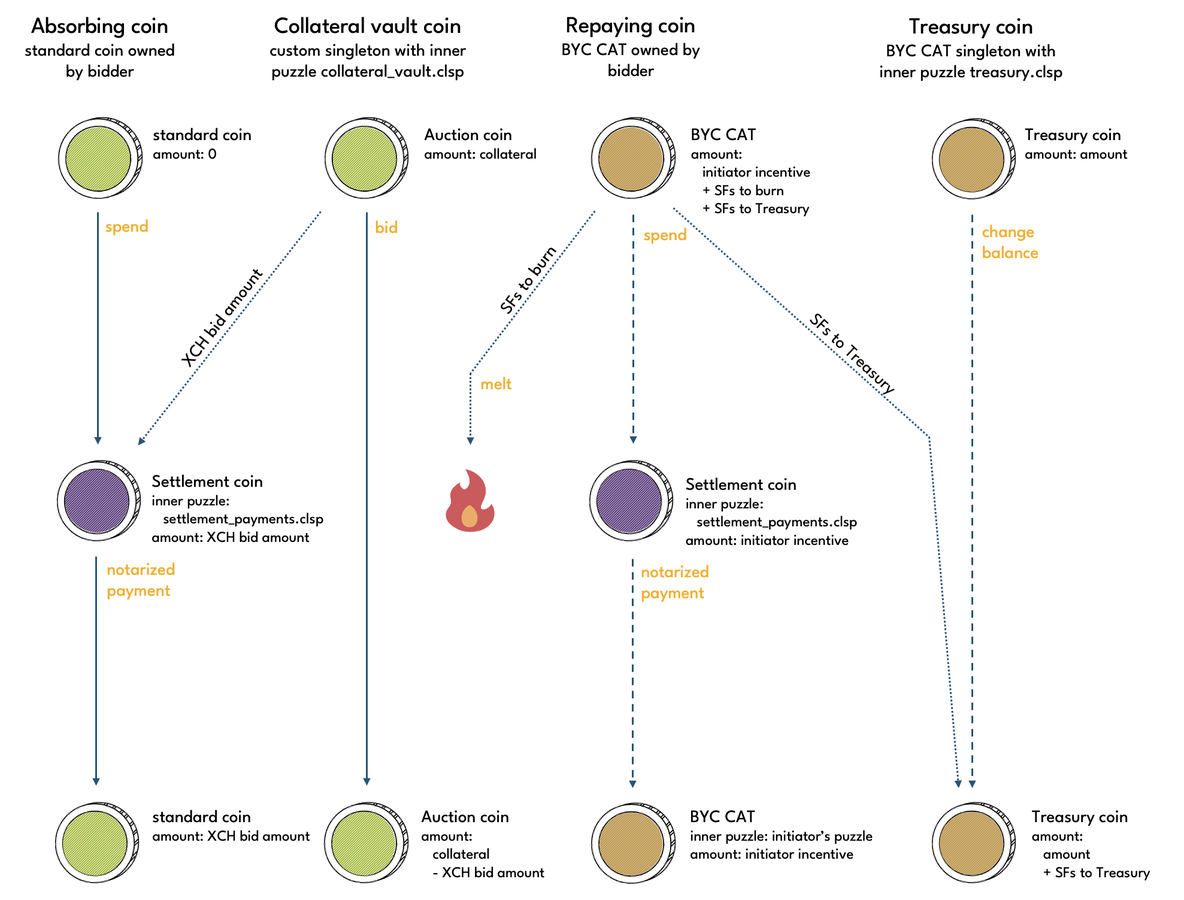
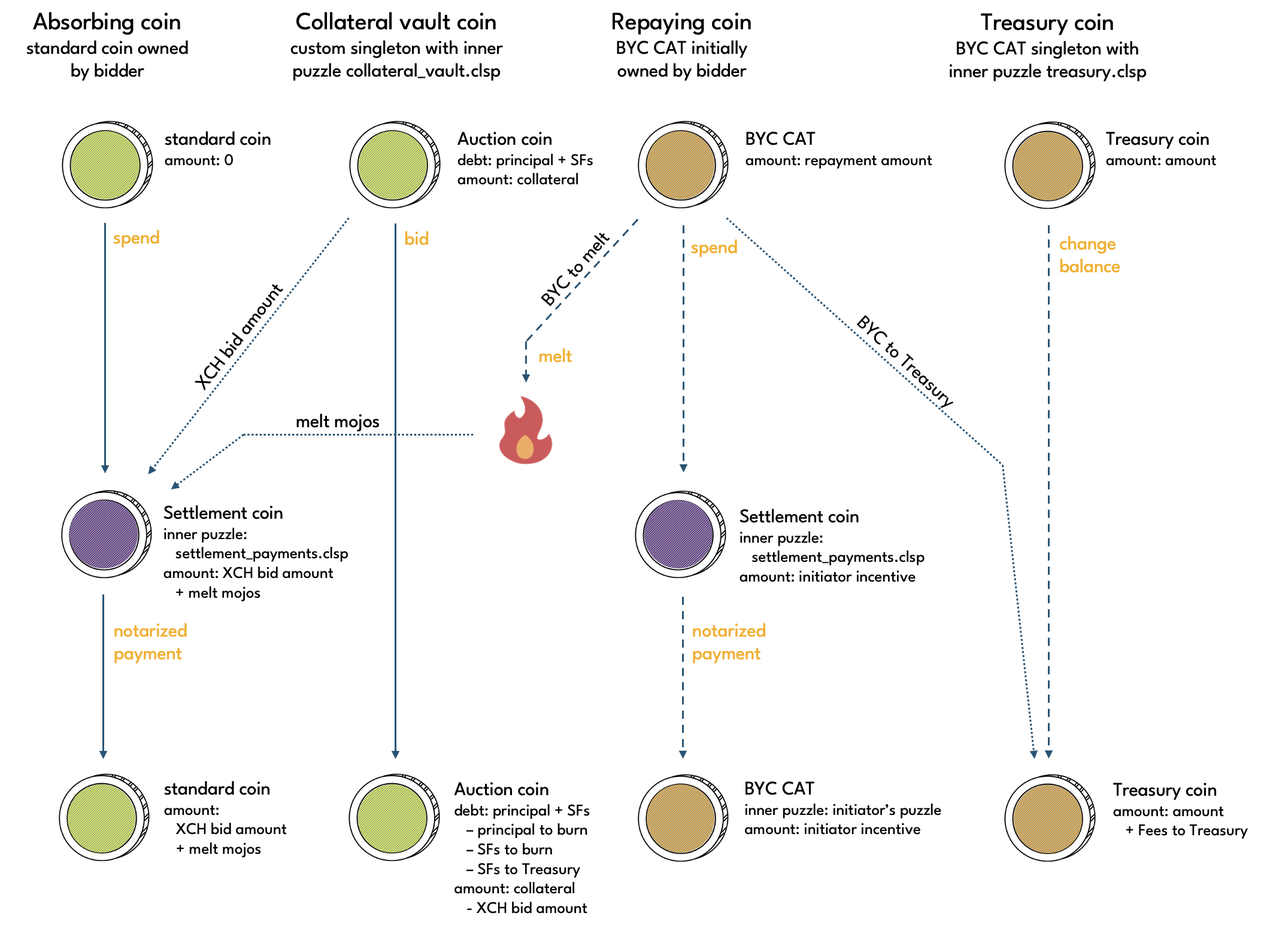
updates liquidation page in technical manual to account for new way in which debt is being recovered

diff --git a/docs/technical-manual/liquidation.md b/docs/technical-manual/liquidation.md
@@ -10,6 +10,8 @@ When a collateral vault liquidation is triggered, owner operations can no longer
 
 Liquidation auctions are Dutch auctions that either recover all debt or eventually time out. If a timeout occurs without all debt having been recovered but with collateral left in the vault, then a liquidation auction can be restarted by calling the start operation again. If a timeout occurs without all debt having been recovered and with no collateral left in the vault, then a restart is no longer possible, and the vault is said to have incurred **Bad Debt**.
 
+Throughout liquidation and bad debt recovery processes, any remaining debt is enforced to be greater than the **Minimum Debt Amount**. This prevents vaults being left with small amounts of debt that are uneconomical to recover.
+
 ## Operations
 
 Puzzle that operations are performed on: [collateral_vault.clsp](https://github.com/circuitdao/puzzles/blob/main/circuit_puzzles/collateral_vault.clsp)
@@ -23,42 +25,84 @@ Keeper operations:
 
 Starts or restarts a liquidation auction. A liquidation auction can be started if the value of the collateral, valued at the Statutes Price, is less than or equal to the vault's outstanding debt. The keeper that executes the start operation is referred to as the **initiator**. Executing the start operation entitles the initiator to the [liquidation incentives](./../user-guide/liquidation#liquidation-incentives).
 
-A vault keeps track of the state of a Liquidation Auction in the ```AUCTION_STATE``` curried arg. Auction state variables:
+When a Liquidation Auction is started, the vault's debt gets frozen, i.e. Stability Fees stop accruing. On top of the debt, a Liquidation Penalty is applied, which is a number of basis points as set in ```STATUTE_VAULT_LIQUIDATION_PENALTY_BPS```. The sum of debt and Liquidation Penalty is the **total debt**. The aim of the Liquidation Auction is to recover the total debt by auctioning off the vault's collateral.
+
+```
+initial_total_debt = debt + liquidation_penalty
+```
+
+When a Liquidation Auction gets started, total debt split into three components: **initiator incentive**, **BYC to Treasury**, and **BYC to melt**. These are reduced successively with each bid. Remaining balances of each are kept track of in the ```AUCTION_STATE``` curried arg.
+
+```
+remaining_total_debt = initiator_incentive_balance + byc_to_treasury_balance + byc_to_melt_balance
+```
+
+When the auction is started, initiator incentive is set to be the Liquidation Incentive, BYC to Treasury is defined as LP plus SFs minus Liquidation Incentive minus Transferred Fees, and BYC to melt is defined to be principal plus Transferred Fees. See the diagram in the [Bid](./liquidation#bid) operation section. Since these three quantities are being used to keep account of the vault's remaining total debt over the course of the Liquidation Auction, the curried args ```PRINCIPAL```, ```TRANSFERRED_FEES``` and ```DISCOUNTED_PRINCIPAL``` are no longer needed and are set to 0.
+
+A vault keeps track of the state of a Liquidation Auction in the ```AUCTION_STATE``` curried arg. Auction state variables are:
 
 * ```auction_start_time```: timestamp of when auction was (re-)started
 * ```start_price```: price at which Dutch auction starts. calculated as Statutes Price * Starting Price Factor
 * ```step_price_decrease_factor```: factor by which auction price decreases in each step of Dutch auction
 * ```step_time_interval```: number of seconds for which an auction price is valid before it gets reduced again
 * ```initiator_puzzle_hash```: puzzle hash at which the initiator has opted to receive the Liquidation Incentive
-* ```remaining_initiator_incentive```: liquidation incentive still to be paid to initiator
+* ```initiator_incentive_balance```: remaining liquidation incentive still to be paid to initiator
+* ```auction_timeout```: time until auction times out
+* ```minimum_debt_amount```: minimum debt that must remain if not paid off entirely
+* ```byc_to_treasury_balance```: remaining share of debt to be paid to treasury
+* ```byc_to_melt_balance```: remaining share of debt to be melted
 
-Auction state variables are immutable until the auction finishes except for ```remaining_initiator_incentive```, which reduces with each bid until the Liquidation Incentives have been fully paid out to the initiator.
+Auction state variables are immutable until the auction finishes except for the three components that make up remaining total debt:
+* ```initiator_incentive_balance```
+* ```byc_to_treasury_balance```
+* ```byc_to_melt_balance```
 
 #### State changes
 
+* ```TRANSFERRED_FEES```: set to 0
 * ```AUCTION_STATE```: initialisation of all auction state variables
+* ```PRINCIPAL```: set to 0
+* ```DISCOUNTED_PRINCIPAL```: set to 0
 
 ### Bid
 
 Once started, keepers can bid in the liquidation auction until it times out.
 
-Bidders specify how much of the remaining debt owed to the vault they would like to repay. This is the **BYC bid amount**. The collateral vault puzzle calculates the **XCH bid amount**, which is the amount of collateral that the bidder receives in return based on the current auction price. The current auction price in turn is calculated based on the time that has passed since the start of the auction, **Price Validity** (```step_time_interval```) and **Price Decrease Factor** (```step_price_decrease_factor```).
+Bidders specify how much of the remaining debt owed to the vault they would like to repay. This is the **BYC bid amount**. The collateral vault puzzle calculates the **XCH bid amount**, which is the amount of collateral that the bidder receives in return based on the current auction price.
+
+The auction price is calculated based on the time that has passed since the start of the auction, **Price Validity** (```step_time_interval```) and **Price Decrease Factor** (```step_price_decrease_factor```). See the [Liquidation Auction](./../user-guide/liquidation#liquidation-auction) section in the User Guide for a diagram.
+
+BYC bid amounts are applied against any remaining debt in the following order:
+* Liquidation Incentive
+* BYC to Treasury
+* BYC to melt
+In other words, only once the Initiator has received the full Liquidation Incentive is any BYC transferred to Treasury. And only once the Treasury has received the full amount it is due does any BYC get melted.
+
+![Liquidation BYC bid amount allocation](./../../static/img/Liquidation_bid_allocation_diagram.png)
+
+The diagram above illustrates how BYC bid amounts are allocated. In this concrete example, both Initiator and Treausry are being fully paid, and there is only some BYC left to melt to extinguish what remains of the total debt, i.e. any further bids would have their entire BYC bid amounts melted.
+
+A coin spend diagram for a Liquidation Auction bid is shown below. Depending on how much of the total debt has already been repaid and the size of a bid, any of the three destinations of the BYC bid amount is optional. For example if the Initiator has been fully paid already, but not the Treasury, a small bid would have its entire BYC bid amount paid into the Treasury. This means only the Treasury coin spend would be required but no BYC tail reveal for melting and no spend to a settlement coin to pay the Initiator.
 
 ![Liquidation Auction coin spends](./../../static/img/Liquidation_auction_bid_coin_spend_diagram.png)
 
-When a bid is successful, the amount of BYC that gets burned vs that which gets deposited into the Treausry is calculated using the same methodology as in the [repay operation](./collateral-vaults#repay).
-
 If a liquidation auction has timed out and all the debt has been recovered, the liquidation was successful. The vault is released back to the borrower together with any collateral that wasn't claimed in the auction.
 
-If a liquidation auction has timed out without all debt having been recovered it can be restarted via the start auction operation, unless there is no collateral left in the vault, in which case the vault is said to have incurred Bad Debt.
+:::danger
+It is the bidders responsibility to ensure the BYC bid amount does not exceed what is necessary to claim the remaining collateral in the vault. Any excess BYC will be lost.
+:::
+
+The amount of collateral a bidder receives is the minimum of BYC bid amount divided by the current Auction Price and the amount of collateral left in the vault. This means that if the BYC bid amount is chosen too large, the protocol will use it to extinguish debt without delivering any XCH in return, which means that effectively the bidder has acquired collateral at a price above the current Auction Price.
+
+If a Liquidation Auction has timed out without all debt having been recovered it can be restarted via the start auction operation, unless there is no collateral left in the vault, in which case the vault is said to have incurred Bad Debt.
 
 #### State changes
 
-* ```TRANSFERRED_FEES```
 * ```COLLATERAL```
-* ```PRINCIPAL```
-* ```AUCTION_STATE```: ```remaining_initiator_incentive``` gets updated if Liquidation Incentives weren't fully paid out yet
-* ```DISCOUNTED_PRINCIPAL```
+* ```AUCTION_STATE```:
+  * ```initiator_incentive_balance```
+  * ```byc_to_treasury_balance```
+  * ```byc_to_melt_balance```
 
 ### Recover Bad Debt
 
@@ -66,13 +110,15 @@ A liquidation fails if all collateral has been sold off to bidders without all d
 
 ![Recover bad debt](./../../static/img/Recover_bad_debt_diagram.png)
 
-If there isn't enough BYC in the Treasury to cover the entire Bad Debt amount, keepers can refill the Treasury by [transferring Stability Fees](./collateral-vault#transfer-stability-fees) from collateral vaults that are neither in liquidation nor have incurred Bad Debt. If even after a Treasury refill there isn't enough BYC available to cover the entire Bad Debt, it is possible to extinguish only part of it. Any remaining Bad Debt should be recovered by holding [Recharge Auctions](./recharge-auction) to refill the Treasury.
+If there isn't enough BYC in the Treasury to cover the entire Bad Debt amount, keepers can refill the Treasury by [transferring Stability Fees](./collateral-vault#transfer-stability-fees) from collateral vaults that are neither in liquidation nor have incurred Bad Debt. Alternatively, it is possible to hold [Recharge Auctions](./recharge-auction) to refill the Treasury, or to extinguish only part of the Bad Debt.
 
-Once all bad debt has been extinguished, i.e. both ```TRANSFERRED_FEES``` and ```PRINCIPAL``` are 0, ```AUCTION_STATE``` is set to nil. This returns the vault to eve state and hands control back to its owner.
+Once all bad debt has been recovered, ```AUCTION_STATE``` is set to nil. This returns the vault to eve state and hands control back to its owner.
+
+Note that the initiator is not entitled to any upaind initiator incentive if the vault is in bad debt.
 
 #### State changes
 
-* ```TRANSFERRED FEES```: gets reduced according to recovery amount
-* ```PRINCIPAL```: gets reduced according to recovery amount
 * ```AUCTION_STATE```: set to nil if all bad debt extinguished
-* ```DISCOUNTED_PRINCIPAL```: set to nil
+  * ```initiator_incentive_balance```
+  * ```byc_to_treasury_balance```
+  * ```byc_to_melt_balance```

diff --git a/docs/technical-manual/advanced-topics/design-decisions.md b/docs/technical-manual/advanced-topics/design-decisions.md
@@ -30,65 +30,6 @@ Generally, the aim has been to reduce the cost of coin spends as much as possibl
 
 * Conditions make use of ```sha256``` hashes instead of ```sha256tree`` hashes whenever possible as a plain hash is cheaper than a treehash. In doing so, care must be taken to prevent byte shifting attacks by checking the length of each hashed element.
 
-## Condition prefixes and filtering
-
-When performing an operation on the protocol, it is usually necessary to spend multiple protocol coins at once, and for these coins to communicate with each other to ensure that each of them is being spent in a specific way. The mechanism that Chia uses for this are [conditions](https://docs.chia.net/conditions).
-
-In addition, protocol coins may also want to communicate with the off-chain world, for example with the driver code that is used to construct coin spends. This can be achieved via driver hints, which also use conditions.
-
-### Inter-coin communication
-
-Inter-coin communication is facilitated by announcement and message conditions.
-
-| condition                  | prefixable         |
-|:---------------------------|:------------------:|
-| SEND_MESSAGE               | :white_check_mark: |
-| RECEIVE_MESSAGE            | :white_check_mark: |
-| CREATE_COIN_ANNOUNCEMENT   | :white_check_mark: |
-| ASSERT_COIN_ANNOUNCEMENT   |                    |
-| CREATE_PUZZLE_ANNOUNCEMENT | :white_check_mark: |
-| ASSERT_PUZZLE_ANNOUNCEMENT |                    |
-
-For the protocol to be secure, it is crucial that the conditions marked as **prefixable** in the table above cannot be faked.
-
-For example, if a user secures a vault with an inner puzzle, the inner puzzle must not output a SEND_MESSAGE condition that looks like an SEND_MESSAGE condition the outer puzzle could have generated, as this could be used to falsely signal to other coins that the vault is being spent in a certain way or has a certain state.
-
-To prevent conditions from being faked, the protocol uses the same [trick](https://chialisp.com/cats/#prefixes) as CATs, and prepends the **protocol prefix** to the condition message:
-
-```PROTOCOL_PREFIX = "CRT"```
-
-The outer puzzle of any protocol coin can then filter all conditions generated by the inner puzzle or passed in via the solution, and fail the spend if a prefixable condition is encountered.
-
-Assert conditions are not prefixable as these can only restrict the spend of the coin that outputs them, but have no effect on other coins.
-
-
-### Driver hints
-
-It can be difficult for drivers to tell the state of an unspent coin. The driver code would effectively need to reimplement the coin spend logic of the coin's parent puzzle, so that the state of the unspent coin can be derived from parent puzzle reveal and solution. However, this can be challenging, especially as there are no transpilers for Chialisp available yet, making driver code trying to accurately replicate Chialisp code prone to errors.
-
-As a workaround, puzzles can communicate with the driver via remark conditions. If every spend path of a puzzle includes a remark condition that publishes the state of the child coin created, it is straightforward for the driver to construct the state of the child coin.
-
-| condition | prefixable         |
-|:----------|:------------------:|
-| REMARK    | :white_check_mark: |
-
-As with conditions use for inter-coin communication, the protocol makes sure that remark conditions used for driver hints cannot be faked by making the protocol prefix the first element following the condition code.
-
-```(list REMARK PROTOCOL_PREFIX ...)```
-
-The outer puzzle of any protocol coin can then filter all remark conditions generated by the inner puzzle or passed in via the solution, and fail the spend if a prefixed one is encountered.
-
-:::warning
-Collateral vaults use a prefixed remark condition from the inner puzzle to determine which vault operation is being performed. This means that vault owners need to be careful to only use inner puzzles that allows them to generate the required remark conditions if needed. This has the advantage that complex custody arrangements can be put into place (such as custom rules for how individual vault operations must be authorised), but comes with the risk that an error in the inner puzzle logic results in the collateral deposited in a vault becoming inaccessible.
-:::
-
-
-### Coin creation
-
-The CREATE_COIN condition deserves special attention. Where there is an inner puzzle or the ability to pass in conditions via the solution, it would be possible for additional child coins to be created. This is problematic for [protocol coins](http://localhost:3000/technical-manual/overview#list-of-protocol-coins) that are singletons.
-
-Although it would be possible to prefix CREATE_COIN conditions using the memo field, protocol condition filters ensure that no arbitrary CREATE_COINs can be generated from inner puzzles or solutions. CREATE_COIN conditions are either suitably processed or modified, or cause the spend to fail. If users want to tie the creation of a new coin to protocol coin spends, they can achieve this by using non-prefixed inter-coin communication conditions and protocol-external parent coins.
-
 
 ## Security
 

diff --git a/docs/technical-manual/advanced-topics/condition-filtering.md b/docs/technical-manual/advanced-topics/condition-filtering.md
@@ -1,0 +1,69 @@
+---
+id: condition-filtering
+title: Condition filtering
+sidebar_position: 1400
+---
+
+# Condition prefixes and filtering
+
+When performing an operation on the protocol, it is usually necessary to spend multiple protocol coins at once, and for these coins to communicate with each other to ensure that each of them is being spent in a specific way. The mechanism that Chia uses for this are [conditions](https://docs.chia.net/conditions).
+
+In addition, protocol coins may also want to communicate with the off-chain world, for example with the driver code that is used to construct coin spends. This can be achieved via driver hints, which also use conditions.
+
+## Inter-coin communication
+
+Inter-coin communication is facilitated by announcement and message conditions.
+
+| condition                  | prefixable         |
+|:---------------------------|:------------------:|
+| SEND_MESSAGE               | :white_check_mark: |
+| RECEIVE_MESSAGE            | :white_check_mark: |
+| CREATE_COIN_ANNOUNCEMENT   | :white_check_mark: |
+| ASSERT_COIN_ANNOUNCEMENT   |                    |
+| CREATE_PUZZLE_ANNOUNCEMENT | :white_check_mark: |
+| ASSERT_PUZZLE_ANNOUNCEMENT |                    |
+
+For the protocol to be secure, it is crucial that the conditions marked as **prefixable** in the table above cannot be faked.
+
+For example, if a user secures a vault with an inner puzzle, the inner puzzle must not output a SEND_MESSAGE condition that looks like an SEND_MESSAGE condition the outer puzzle could have generated, as this could be used to falsely signal to other coins that the vault is being spent in a certain way or has a certain state.
+
+To prevent conditions from being faked, the protocol uses the same [trick](https://chialisp.com/cats/#prefixes) as CATs, and prepends the **protocol prefix** to the condition message:
+
+```
+PROTOCOL_PREFIX = "C"
+```
+
+The outer puzzle of any protocol coin can then filter all conditions generated by the inner puzzle or passed in via the solution, and fail the spend if a prefixable condition is encountered.
+
+Assert conditions are not prefixable as these can only restrict the spend of the coin that outputs them, but have no effect on other coins.
+
+For a diagram showing how protocol coins communicate with each other, see the [Inter-Coin Communication](./inter-coin-communication) section.
+
+
+## Driver hints
+
+It can be difficult for drivers to tell the state of an unspent coin. The driver code would effectively need to reimplement the coin spend logic of the coin's parent puzzle, so that the state of the unspent coin can be derived from parent puzzle reveal and solution. However, this can be challenging, especially as there are no transpilers for Chialisp available yet, making driver code trying to accurately replicate Chialisp code prone to errors.
+
+As a workaround, puzzles can communicate with the driver via remark conditions. If every spend path of a puzzle includes a remark condition that publishes the state of the child coin created, it is straightforward for the driver to construct the state of the child coin.
+
+| condition | prefixable         |
+|:----------|:------------------:|
+| REMARK    | :white_check_mark: |
+
+As with conditions use for inter-coin communication, the protocol makes sure that remark conditions used for driver hints cannot be faked by making the protocol prefix the first element following the condition code.
+
+```(list REMARK PROTOCOL_PREFIX ...)```
+
+The outer puzzle of any protocol coin can then filter all remark conditions generated by the inner puzzle or passed in via the solution, and fail the spend if a prefixed one is encountered.
+
+:::warning
+Collateral vaults use a prefixed remark condition from the inner puzzle to determine which vault operation is being performed. This means that vault owners need to be careful to only use inner puzzles that allows them to generate the required remark conditions if needed. This has the advantage that complex custody arrangements can be put into place (such as custom rules for how individual vault operations must be authorised), but comes with the risk that an error in the inner puzzle logic results in the collateral deposited in a vault becoming inaccessible.
+:::
+
+
+## Coin creation
+
+The CREATE_COIN condition deserves special attention. Where there is an inner puzzle or the ability to pass in conditions via the solution, it would be possible for additional child coins to be created. This is problematic for [protocol coins](http://localhost:3000/technical-manual/overview#list-of-protocol-coins) that are singletons.
+
+Although it would be possible to prefix CREATE_COIN conditions using the memo field, protocol condition filters ensure that no arbitrary CREATE_COINs can be generated from inner puzzles or solutions. CREATE_COIN conditions are either suitably processed or modified, or cause the spend to fail. If users want to tie the creation of a new coin to protocol coin spends, they can achieve this by using non-prefixed inter-coin communication conditions and protocol-external parent coins.
+

diff --git a/docs/technical-manual/collateral-vaults.md b/docs/technical-manual/collateral-vaults.md
@@ -97,13 +97,13 @@ Note that due to the coinset model, the protocol itself does not know the total 
 
 ## Stability Fee transfers
 
-It is possible to mint BYC against accrued Stability Fees. BYC minted in this way is transferred to the Treasury. Each collateral vaults keeps track of the net amount of BYC it has transferred to the Treasury in this manner in the **Transferred Fees** variable.
+It is possible to mint BYC against accrued Stability Fees. BYC minted in this way is transferred to the Treasury. Each collateral vaults keeps track of the net amount of BYC it has transferred to the Treasury in this manner, which is referred to as **Transferred Fees** and stored in the ```TRANSFERRED_FEES``` curried arg.
 
-Transferring fees is the preferred mechanism to top up the Treasury, as it is quicker and less costly than holding a recharge auction. Keepers should transfer fees on an ongoing basis to keep the Treasury filled to near the Treasury Maximum. That way it can be ensured that savers can be paid interest on demand and Bad Debt can be extinguished as soon as it arises.
+Transferring fees is the preferred mechanism to top up the Treasury, as it is quicker and less costly than holding a recharge auction. Keepers should transfer fees on an ongoing basis to keep the Treasury filled to near the Treasury Maximum. That way it can be ensured that savers can be paid interest on demand and Bad Debt can be extinguished as soon as it arises. At the same time, governance needs to take into account the possibility that keepers may transfer any non-transferred SFs to the Treasury at any time when setting the Treasury Maximum. If the Treasury Maximum is set too low, it could result in Surplus Auctions being triggered that drain the protocol of BYC that may be needed to cover liabilities towards savers.
 
-The maximum amount of fees that can be transferred from a vault is the acrrued SFs less the Transferred Fees. This ensures that all BYC in circulation remains fully backed and overcollateralised as required by the Liquidation Ratio. The protocol also enforces a minimum amount to transfer, **Minimum Stability Fee Transfer Amount** (MSFTA), to prevent collateral vault coin hogging.
+The maximum amount of fees that can be transferred from a vault is the acrrued SFs less any existing Transferred Fees. This ensures that all BYC in circulation remains fully backed and overcollateralised as required by the Liquidation Ratio. The protocol also enforces a minimum amount to transfer, **Minimum Stability Fee Transfer Amount** (MSFTA), to prevent collateral vault coin hogging.
 
-It is governance's responsibility to ensure that the savings rate is set such that the protocol's liability to savers is less than the amount of accrued Stability Fees. In particular, this means that the savings should not be greater than the Stability Fee rate, as otherwise there would be an arbitrage.
+It is governance's responsibility to ensure that the savings rate is set such that the protocol's liability to savers is less than the amount of accrued Stability Fees. In particular, this means that the savings rate should not be greater than the Stability Fee rate.
 
 
 ## Operations
@@ -182,6 +182,18 @@ The ownership or custody arragements or a collateral vault can be changed using 
 #### State changes
 
 * ```INNER_PUZZLE_HASH```
+
+### Transfer Stability Fees
+
+Mints BYC against a collateral vault's accrued Stability Fees. The BYC minted is transferred to the Treasury.
+
+When this operation is called, it mints the maximum amount of BYC possible. In other words, any accrued SFs that weren't transferred previously get transferred.
+
+The operation can only be performed if the amount of SFs transferred is no less than the Minimum Stability Fee Transfer Amount. This prevents coin hogging attacks on collateral vault coins.
+
+#### State changes
+
+* ```TRANSFERRED_FEES```: increases by the amount of SFs transferred
 
 
 ## State and lineage

diff --git a/docs/technical-manual/overview.md b/docs/technical-manual/overview.md
@@ -28,7 +28,7 @@ Below is a complete list of protocol coin types. All protocol coins are singleto
 * [Recharge Auction coins](https://github.com/circuitdao/puzzles/blob/main/circuit_puzzles/recharge_auction.clsp) - BYC CAT singleton
 * [Surplus Auction coin](https://github.com/circuitdao/puzzles/blob/main/circuit_puzzles/surplus_auction.clsp) - CRT CAT singleton
 * [Payout coin](https://github.com/circuitdao/puzzles/blob/main/circuit_puzzles/payout.clsp) - BYC CAT singleton
-* [Collateral vaults](https://github.com/circuitdao/puzzles/blob/main/circuit_puzzles/collateral_vault.clsp) - singleton with owner
+* [Collateral vaults](https://github.com/circuitdao/puzzles/blob/main/circuit_puzzles/collateral_vault.clsp) - custom singleton with owner
 * [Savings vaults](https://github.com/circuitdao/puzzles/blob/main/circuit_puzzles/savings_vault.clsp) - BYC CAT singleton with owner
 * [Governance coins](https://github.com/circuitdao/puzzles/blob/main/circuit_puzzles/governance.clsp) - CRT CAT singleton with owner
 
@@ -44,7 +44,7 @@ For each protocol coin page deals with operations that can be performed on a giv
   * Savings vaults
   * Announcers
   * Governance
-* **Keeper**: This can be anyone, but are often professional trading firms that operate bots or automated trading infrastructure. Applies to:
+* **Keeper**: This can be anyone, but in practice are often professional trading firms that operate bots or automated trading infrastructure. Applies to:
   * Statutes
   * Oracle
   * Announcers

diff --git a/docs/glossary.md b/docs/glossary.md
@@ -22,7 +22,7 @@ The glossary assumes familiarity with basic concepts of [Chia blockchain](https:
 
 **CAT.** A [Chia Asset Token](https://chialisp.com/cats).
 
-**CAT singleton.** A CAT whose inner puzzle ensures that the coin is also a singleton.
+**CAT singleton.** A CAT whose inner puzzle ensures that the coin is also a singleton. CAT singletons are custom singletons.
 
 **Coin.** A [coin](https://chialisp.com/chialisp-first-smart-coin/#coins) on Chia blockchain.
 
